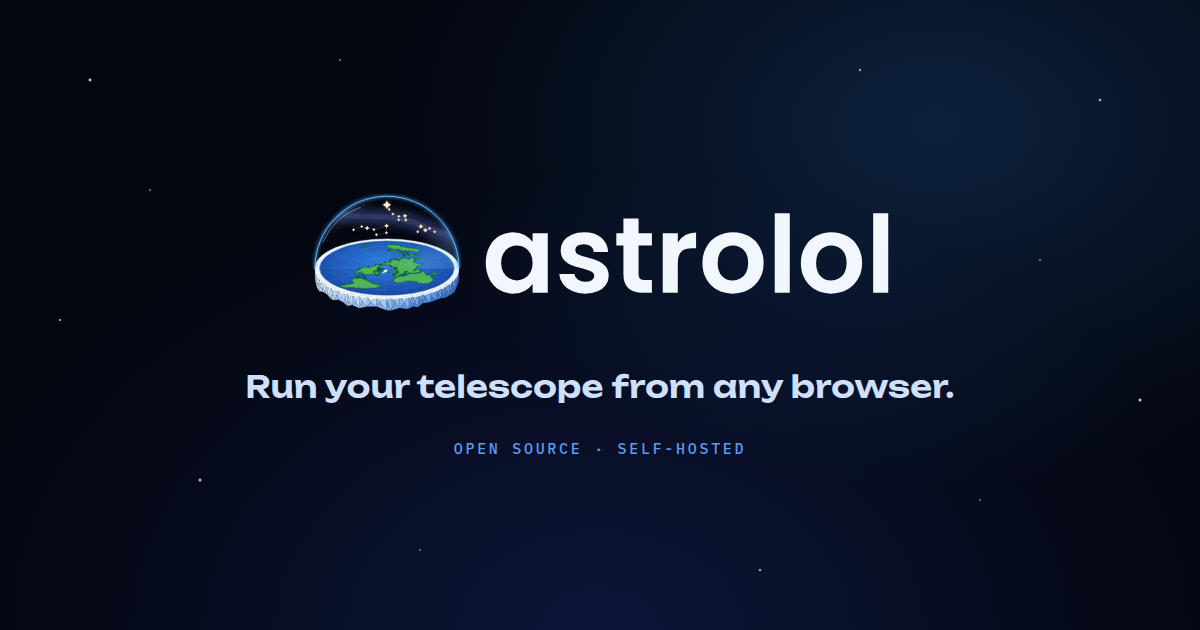
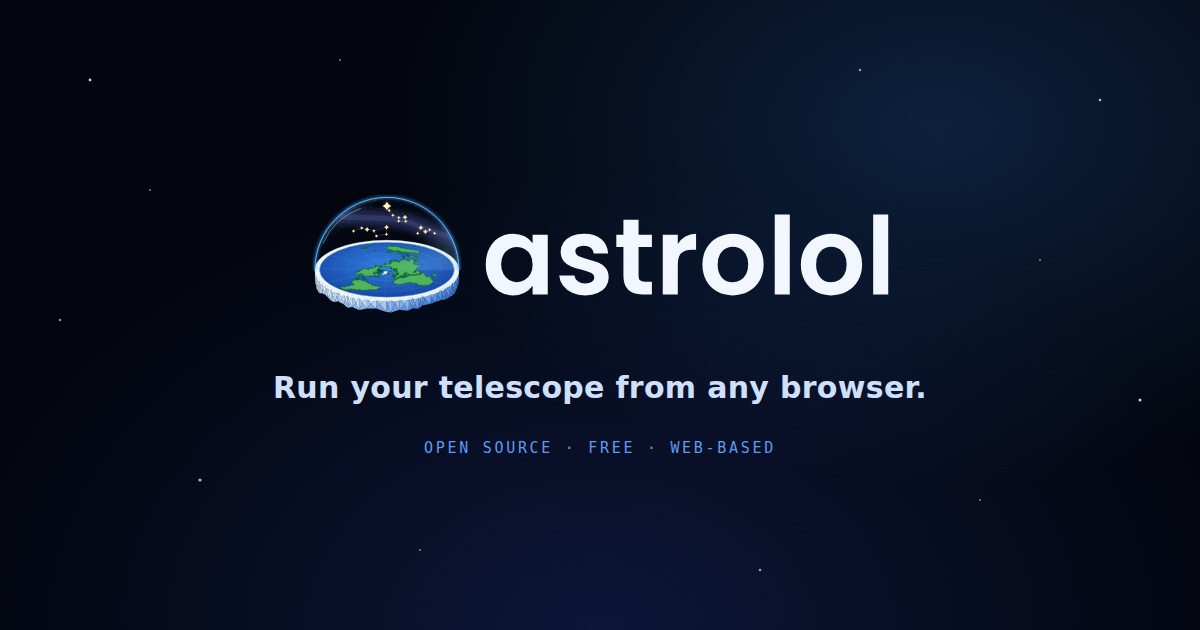
Update stale "self-hosted" wording to match the current tagline
Claude-Session: https://claude.ai/code/session_011pgbCG7T3jXC8GjFWCsrrC

diff --git a/index.html b/index.html
@@ -4,19 +4,19 @@
   <meta charset="utf-8">
   <meta name="viewport" content="width=device-width, initial-scale=1">
   <title>astrolol</title>
-  <meta name="description" content="astrolol is an open-source, self-hosted platform for controlling your telescope, camera, mount and guiding from any browser.">
+  <meta name="description" content="astrolol is a free, open-source, web-based platform for controlling your telescope, camera, mount and guiding from any browser.">
   <link rel="icon" href="assets/logo-transparent.svg">
 
   <meta property="og:type" content="website">
   <meta property="og:url" content="https://astrolol.lol/">
   <meta property="og:title" content="astrolol">
-  <meta property="og:description" content="Open-source, self-hosted platform for controlling your telescope, camera, mount and guiding from any browser.">
+  <meta property="og:description" content="Free, open-source, web-based platform for controlling your telescope, camera, mount and guiding from any browser.">
   <meta property="og:image" content="https://astrolol.lol/assets/og-image.png">
   <meta property="og:image:width" content="1200">
   <meta property="og:image:height" content="630">
   <meta name="twitter:card" content="summary_large_image">
   <meta name="twitter:title" content="astrolol">
-  <meta name="twitter:description" content="Open-source, self-hosted platform for controlling your telescope, camera, mount and guiding from any browser.">
+  <meta name="twitter:description" content="Free, open-source, web-based platform for controlling your telescope, camera, mount and guiding from any browser.">
   <meta name="twitter:image" content="https://astrolol.lol/assets/og-image.png">
   <link rel="preconnect" href="https://fonts.googleapis.com">
   <link href="https://fonts.googleapis.com/css2?family=Unbounded:wght@500;600;700&family=IBM+Plex+Sans:wght@400;500;600&family=IBM+Plex+Mono:wght@400;500&display=swap" rel="stylesheet">
